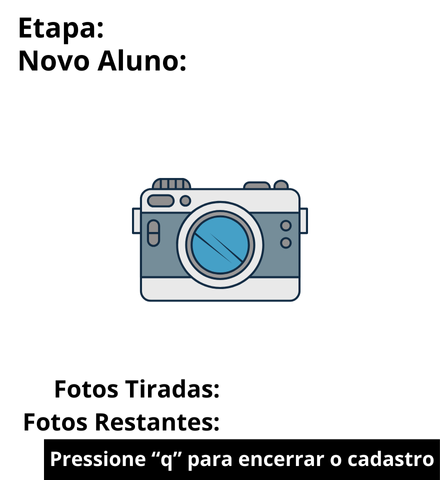
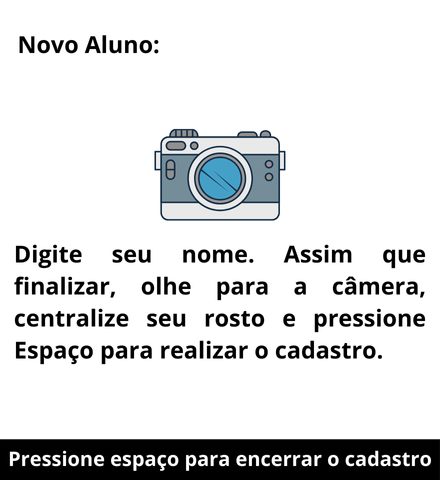
Final version 1

Changed region(s): [[0.0, 0.25, 1.0, 1.0], [0.0295, 0.0312, 0.4136, 0.1562]]

diff --git a/Projeto Final/Código/projeto.py b/Projeto Final/Código/projeto.py
@@ -10,7 +10,7 @@ from datetime import datetime
 import pandas as pd
 import random
 from os import listdir
-import face_recognition  # Precisamos adicionar essa parte
+import face_recognition
 
 
 #--------------------------------------
@@ -19,7 +19,7 @@ import face_recognition  # Precisamos adicionar essa parte
 Camera_Index = 0
 winName = 'Chamada Virtual - Grupo 6'
 Path_Relatorio = "Relatórios/"
-Path_ImagensDosAlunos = "Alunos Cadastrados"  # Diretório com imagens dos alunos
+Path_ImagensDosAlunos = "Alunos Cadastrados"
 Path_CascadeClassifier = "Assets/haarcascade_frontalface_default.xml"
 Path_TelaCadastro = "Assets/Background-Cadastro.png"
 Path_TelaInicial = "Assets/Background-Inicial.png"
@@ -69,7 +69,6 @@ cv2.moveWindow(winName, 100, 100)
 with open(Path_JsonClassDetails, "r", encoding="utf-8") as j:
      class_details = json.loads(j.read())
 
-
 #Definição da variável de nome dos alunos
 student_names = [x[:-4] for x in listdir(Path_ImagensDosAlunos) if x.endswith(".png")]
 
@@ -85,27 +84,6 @@ def get_rostos():
 			rostos_conhecidos.append(student_face_encoding[0])
 			nome_dos_rostos.append(student_name)
 	return rostos_conhecidos, nome_dos_rostos
-
-#------------------------------------------
-#-   Função para identificação do aluno   -
-#------------------------------------------
-def DetectaAluno(detected_face, rostos_cadastrados, nomes_cadastrados):
-    """
-    Identifica o aluno com base na face detectada.
-    
-    :param detected_face: A imagem da face detectada
-    :return: O nome do aluno identificado, ou uma string vazia se não for identificado
-    """
-	# Comparar com os rostos conhecidos
-    matches = face_recognition.compare_faces(rostos_cadastrados, detected_face)
-    face_distances = face_recognition.face_distance (rostos_cadastrados, detected_face)
-    melhor_id = np.argmin(face_distances)
-    if matches[melhor_id]:
-        nome = nomes_cadastrados[melhor_id]
-    else:
-        nome = "Desconhecido"
-
-    return nome
 
 
 #------------------------
@@ -155,31 +133,69 @@ Reactions_surprise = [
 	]
 Reactions_neutral = [
 	"Cada aula e uma nova\nchance de descobrir algo\nincrivel!",
-	"As vezes, o simples ato\nde começar e o primeiro\npasso para grandes\nconquistas.",
+	"As vezes, o simples ato\nde comecar e o primeiro\npasso para grandes\nconquistas.",
 	"Sua atitude positiva pode\ntransformar um dia comum\nem algo extraordinario!",
 	"De o seu melhor hoje; cada\npequeno esforco conta!",
 	"Aproveite o dia e faca dele\numa oportunidade de\ncrescimento!"
 	]
 
+import string    
 #--------------------------------------------
 #-   Função para cadastro de novos alunos   -
 #--------------------------------------------
 def CadastraAluno():
     # Exibe o Loop para cadastro dos alunos
     Capturando = True
+    text = ""
+    letters = string.ascii_lowercase + string.digits
     while Capturando:
         # Lê a webcam
         ret, cam = cap.read()
-
+		
+        TelaCadastro = cv2.imread(Path_TelaCadastro)
+		
+        key = cv2.waitKey(1)
+        for letter in letters:
+            if key == ord(letter):
+                text = text + letter
+		
+        cv2.putText(TelaCadastro, text, (20, 75), cv2.FONT_HERSHEY_SIMPLEX, 0.75, (0,0,0), 2)
+        
         # Atualiza a tela de cadastro
         img = cv2.hconcat([cam, TelaCadastro])
-
+		
+        
         # Exibe a tela
         cv2.imshow(winName, img)
-
+				
         # Verifica se o cadastro foi concluído
-        if cv2.waitKey(1) & 0xFF == ord('q'):  # Press 'q' to quit
+        if cv2.waitKey(1) & 0xFF == ord(" "):  # Press 'q' to quit
+            img_name = Path_ImagensDosAlunos+"/"+text+".png"
+            cv2.imwrite(img_name, cam)
             Capturando = False
+
+
+#------------------------------------------
+#-   Função para identificação do aluno   -
+#------------------------------------------
+def DetectaAluno(detected_face, rostos_cadastrados, nomes_cadastrados):
+    """
+    Identifica o aluno com base na face detectada.
+    
+    :param detected_face: A imagem da face detectada
+    :return: O nome do aluno identificado, ou uma string vazia se não for identificado
+    """
+	# Comparar com os rostos conhecidos
+    matches = face_recognition.compare_faces(rostos_cadastrados, detected_face)
+    face_distances = face_recognition.face_distance (rostos_cadastrados, detected_face)
+    melhor_id = np.argmin(face_distances)
+    if matches[melhor_id]:
+        nome = nomes_cadastrados[melhor_id]
+    else:
+        nome = "Desconhecido"
+
+    return nome
+
 
 #----------------------------------------------------
 #-   Função para identificação da emoção do aluno   -
@@ -380,7 +396,6 @@ while(DandoAula==True):
 		# Verifica se o cadastro foi concluído
 		if cv2.waitKey(1) & 0xFF == ord('q'): #press q to quit
 			Capturando = False
-	
 
 	# Decide o fluxo com base no período
 	if Periodo == 1:

diff --git a/Projeto Final/cadastro.py b/Projeto Final/cadastro.py
@@ -1,0 +1,30 @@
+import cv2
+
+cam = cv2.VideoCapture(0)
+
+cv2.namedWindow("test")
+
+img_counter = 0
+
+while True:
+    ret, frame = cam.read()
+    if not ret:
+        print("failed to grab frame")
+        break
+    cv2.imshow("test", frame)
+
+    k = cv2.waitKey(1)
+    if k%256 == 27:
+        # ESC pressed
+        print("Escape hit, closing...")
+        break
+    elif k%256 == 32:
+        # SPACE pressed
+        img_name = "opencv_frame_{}.png".format(img_counter)
+        cv2.imwrite(img_name, frame)
+        print("{} written!".format(img_name))
+        img_counter += 1
+
+cam.release()
+
+cv2.destroyAllWindows()
